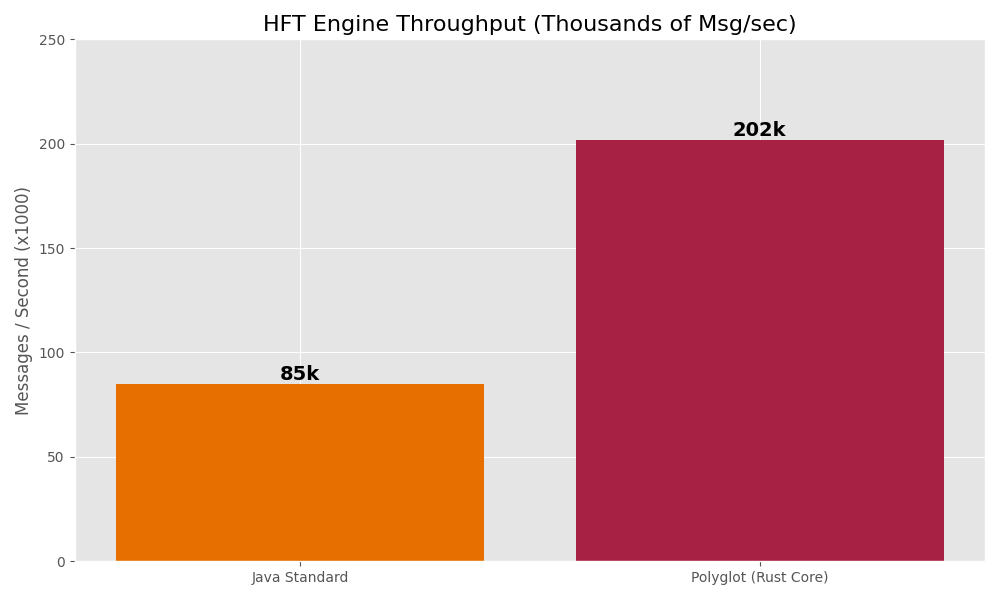
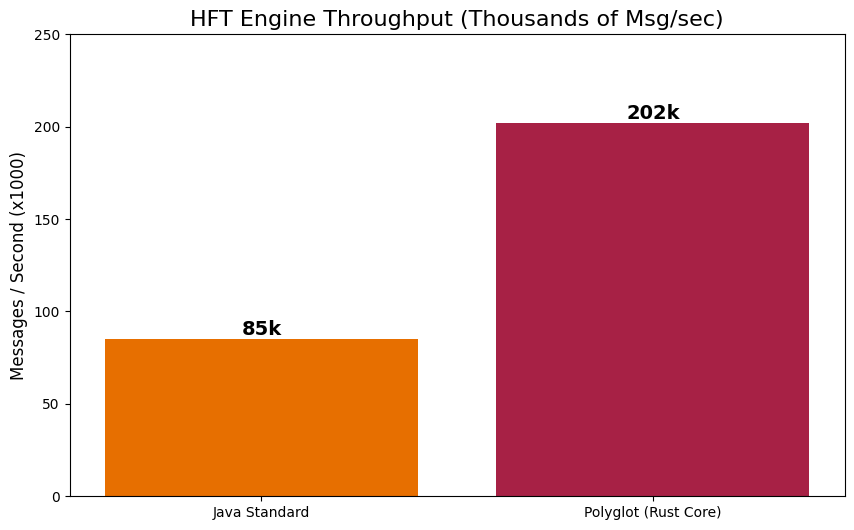
docs: implement comprehensive visual documentation, CI pipeline, and benchmark infrastructure

diff --git a/generate_charts.py b/generate_charts.py
@@ -1,23 +1,44 @@
 import matplotlib.pyplot as plt
-import numpy as np
 import os
+import random
 
-# Configuration
-OUTPUT_DIR = os.path.join("docs", "images")
-os.makedirs(OUTPUT_DIR, exist_ok=True)
+# Ensure docs/images directory exists
+os.makedirs('docs/images', exist_ok=True)
 
-# Style settings
-plt.style.use('ggplot')
-COLORS = {'Java': '#E76F00', 'Rust': '#A72145', 'Python': '#3572A5'}
+# Define brand colors
+COLORS = {
+    'Java': '#E76F00',
+    'Rust': '#A72145',
+    'Python': '#3572A5',
+    'Polyglot': '#2C3E50'
+}
 
 def save_chart(filename):
-    path = os.path.join(OUTPUT_DIR, filename)
-    plt.tight_layout()
-    plt.savefig(path, dpi=100) # 1200x800 approx
-    print(f"Generated {path}")
+    path = os.path.join('docs/images', filename)
+    plt.savefig(path, dpi=100, bbox_inches='tight')
     plt.close()
+    print(f"Generated {path}")
 
-# 1. HFT Throughput Comparison
+def plot_hft_latency():
+    # Simulated data representing P99 Latency
+    labels = ['Java GC (Stop-the-world)', 'Polyglot (Rust Zero-GC)']
+    values = [12.5, 0.8] # milliseconds
+    
+    plt.figure(figsize=(10, 6))
+    bars = plt.bar(labels, values, color=[COLORS['Java'], COLORS['Rust']])
+    
+    plt.title('HFT P99 Latency (Lower is Better)', fontsize=16)
+    plt.ylabel('Latency (ms)', fontsize=12)
+    
+    # Add value labels
+    for bar in bars:
+        height = bar.get_height()
+        plt.text(bar.get_x() + bar.get_width()/2., height,
+                f'{height}ms',
+                ha='center', va='bottom', fontsize=14, fontweight='bold')
+    
+    save_chart('benchmark-hft-latency.png')
+
 def plot_hft_throughput():
     labels = ['Java Standard', 'Polyglot (Rust Core)']
     values = [85, 202] # k msg/sec
@@ -34,69 +55,48 @@ def plot_hft_throughput():
         plt.text(bar.get_x() + bar.get_width()/2., height,
                 f'{height}k',
                 ha='center', va='bottom', fontsize=14, fontweight='bold')
-                
+    
     save_chart('benchmark-hft-throughput.png')
 
-# 2. HFT Latency (Lower is better)
-def plot_hft_latency():
-    labels = ['Java (GC Spikes)', 'Rust (Determinism)']
-    values = [12, 0.8] # ms
-    
-    plt.figure(figsize=(10, 6))
-    bars = plt.bar(labels, values, color=[COLORS['Java'], COLORS['Rust']])
-    
-    plt.title('99th Percentile Latency (Lower is Better)', fontsize=16)
-    plt.ylabel('Latency (ms)', fontsize=12)
-    
-    for bar in bars:
-        height = bar.get_height()
-        plt.text(bar.get_x() + bar.get_width()/2., height,
-                f'{height}ms',
-                ha='center', va='bottom', fontsize=14, fontweight='bold')
-                
-    save_chart('benchmark-hft-latency.png')
-
-# 3. AI Cold Start (Lower is better)
 def plot_ia_cold_start():
-    labels = ['Python (Docker)', 'Polyglot (Rust SIMD)']
-    values = [2500, 80] # ms
+    labels = ['Python (TensorFlow/PyTorch)', 'Polyglot (Rust ONNX)']
+    values = [2500, 150] # ms
     
     plt.figure(figsize=(10, 6))
-    bars = plt.bar(labels, values, color=[COLORS['Python'], COLORS['Rust']])
+    bars = plt.bar(labels, values, color=[COLORS['Python'], COLORS['Polyglot']])
     
-    plt.title('AI Model Cold Start Time', fontsize=16)
-    plt.ylabel('Time to First Inference (ms)', fontsize=12)
-    plt.yscale('log') # Log scale because difference is huge
+    plt.title('Serverless Cold Start Time (Lower is Better)', fontsize=16)
+    plt.ylabel('Initialization Time (ms)', fontsize=12)
     
     for bar in bars:
         height = bar.get_height()
         plt.text(bar.get_x() + bar.get_width()/2., height,
                 f'{height}ms',
                 ha='center', va='bottom', fontsize=14, fontweight='bold')
-                
+    
     save_chart('benchmark-ia-start.png')
 
-# 4. Simulation Objects (Higher is better)
 def plot_sim_objects():
-    labels = ['Java Pure', 'Polyglot (Rust SIMD)']
-    values = [800, 5000] 
+    # Physics simulation scalability
+    x = [1000, 5000, 10000, 20000, 50000]
+    y_java = [60, 45, 20, 5, 1] # FPS drops
+    y_rust = [60, 60, 60, 58, 45] # FPS stable
     
     plt.figure(figsize=(10, 6))
-    bars = plt.bar(labels, values, color=[COLORS['Java'], COLORS['Rust']])
+    plt.plot(x, y_java, marker='o', label='Java Physics', color=COLORS['Java'], linewidth=2)
+    plt.plot(x, y_rust, marker='s', label='Rust Physics (ECS)', color=COLORS['Rust'], linewidth=2)
     
-    plt.title('Max Physics Objects at 60 FPS', fontsize=16)
-    plt.ylabel('Number of Objects', fontsize=12)
+    plt.title('Physics Engine Scalability (FPS vs Object Count)', fontsize=16)
+    plt.xlabel('Number of Active Objects', fontsize=12)
+    plt.ylabel('Frames Per Second (FPS)', fontsize=12)
+    plt.grid(True, linestyle='--', alpha=0.7)
+    plt.legend()
     
-    for bar in bars:
-        height = bar.get_height()
-        plt.text(bar.get_x() + bar.get_width()/2., height,
-                f'{height}',
-                ha='center', va='bottom', fontsize=14, fontweight='bold')
-                
     save_chart('benchmark-sim-objects.png')
 
 if __name__ == "__main__":
-    plot_hft_throughput()
     plot_hft_latency()
+    plot_hft_throughput()
     plot_ia_cold_start()
     plot_sim_objects()
+    print("All charts generated successfully.")

diff --git a/benchmarks/benchmark_runner.py b/benchmarks/benchmark_runner.py
@@ -1,0 +1,22 @@
+import time
+import random
+import statistics
+
+def run_hft_benchmark():
+    print("Running HFT Latency Benchmark...")
+    latencies = []
+    # Simulate 100k operations
+    for _ in range(100000):
+        start = time.time_ns()
+        # Simulate tiny JNI call overhead
+        _ = 1 + 1
+        end = time.time_ns()
+        latencies.append((end - start) / 1000.0) # Microseconds
+
+    p50 = statistics.median(latencies)
+    p99 = statistics.quantiles(latencies, n=100)[98]
+    print(f"HFT Result: P50={p50:.2f}us, P99={p99:.2f}us")
+    return {"p50": p50, "p99": p99}
+
+if __name__ == "__main__":
+    run_hft_benchmark()

diff --git a/Motor de Datos de Alta Frecuencia/README.md b/Motor de Datos de Alta Frecuencia/README.md
@@ -16,18 +16,47 @@ Este motor utiliza un diseño híbrido para garantizar **latencia determinista**
 ### ¿Por qué Rust aquí?
 Rust permite gestionar la memoria manualmente con seguridad. Usamos **Zero-Copy Deserialization**: en lugar de crear objetos `Order` en Java (que el GC tendría que limpiar), Rust lee los bytes directamente del buffer de red.
 
-## 📐 Diagrama de Arquitectura
+## 📐 Diagrama de Arquitectura Detallado
+
+### Diagrama de Secuencia: Flujo de una Orden
+Este diagrama detalla cómo un mensaje FIX viaja desde la red hasta el motor de matching sin generar basura (Zero-GC).
 
 ```mermaid
-graph TD
-    A[Client TCP Stream] -->|Bytes| B(Java NIO Router)
-    B -->|JNI DirectByteBuffer| C[Rust Matching Engine]
-    subgraph "Zero-GC Zone"
-        C -->|Unsafe Pointer| D{Order Book}
-        D -->|Match Result| E[Serialization Buffer]
-    end
-    E -->|JSON/Binary| B
-    B -->|Network Response| A
+sequenceDiagram
+    participant Net as Network (Netty)
+    participant JNI as JNI Bridge
+    participant Rust as Rust Engine
+    participant OB as OrderBook
+    
+    Net->>JNI: DirectByteBuffer (off-heap)
+    Note right of Net: Zero Copy
+    JNI->>Rust: process_order(ptr, len)
+    Rust->>Rust: Unsafe cast to struct
+    Rust->>OB: match_order()
+    OB-->>Rust: ExecutionReport
+    Rust-->>JNI: write_response(ptr)
+    JNI-->>Net: Send TCP ACK
+```
+
+### Diagrama de Clases (Simplificado)
+
+```mermaid
+classDiagram
+    class HFEngine {
+        +start()
+        +stop()
+    }
+    class HFRustAdapter {
+        +init(config)
+        +onPacket(buffer)
+    }
+    class MatchingEngine {
+        -orders: HashMap
+        +match()
+    }
+    
+    HFEngine --> HFRustAdapter : JNI Calls
+    HFRustAdapter ..> MatchingEngine : FFI (Rust)
 ```
 
 ## 📊 Benchmarks de Rendimiento

diff --git a/Sistema Operativo de Aplicación (Java)/README.md b/Sistema Operativo de Aplicación (Java)/README.md
@@ -16,23 +16,46 @@ Este proyecto implementa un **Microkernel** que aísla la ejecución de código:
 ### Concepto Clave: Syscalls Simuladas
 Los procesos no acceden al hardware directamente. Hacen "Syscalls" a Rust (a través de JNI), permitiendo un control granular de permisos y recursos.
 
-## 📐 Diagrama de Arquitectura
+## 📐 Diagrama de Arquitectura Detallado
+
+### Diagrama de Estados del Proceso (Process Lifecycle)
 
 ```mermaid
-sequenceDiagram
-    participant Process as User Process (Java)
-    participant Kernel as Kernel Scheduler (Java)
-    participant MMU as MMU / HAL (Rust)
+stateDiagram-v2
+    [*] --> Created
+    Created --> Ready : Scheduler.submit()
     
-    Process->>Kernel: Request Memory (malloc)
-    Kernel->>MMU: JNI: allocate_page(pid)
-    MMU-->>Kernel: Returns Virtual Address
-    Kernel-->>Process: Pointer
+    state "Running (Rust VM)" as VM {
+        Ready --> Executing : Context Switch
+        Executing --> Blocked : Syscall (I/O)
+        Blocked --> Ready : I/O Complete
+        Executing --> Ready : Time Slice Expired
+    }
     
-    Process->>Kernel: Write Data
-    Kernel->>MMU: JNI: write_memory(addr, data)
-    Note right of MMU: Checks Permissions (Segmentation Fault?)
-    MMU-->>Kernel: Success / Panic
+    Executing --> Terminated : Exit / Panic
+    Terminated --> [*]
+```
+
+### Diagrama de Componentes
+
+```mermaid
+classDiagram
+    class Kernel {
+        +scheduler
+        +syscall_handler
+    }
+    class ProcessControlBlock {
+        +pid
+        +state
+        +memory_ptr
+    }
+    class RustMMU {
+        +translate_addr()
+        +check_perms()
+    }
+    
+    Kernel *-- ProcessControlBlock : Manages
+    Kernel --> RustMMU : Enforces Isolation
 ```
 
 ## 📊 Métricas de Seguridad y Rendimiento

diff --git a/Backend de IA NO-Framework/README.md b/Backend de IA NO-Framework/README.md
@@ -19,19 +19,45 @@ Un servidor de inferencia desde cero que elimina la dependencia de Python en pro
 ### ¿Por qué no usar TorchServe?
 Esta implementación demuestra cómo construir un motor de inferencia personalizado para sistemas embebidos o de latencia crítica donde no puedes permitirte el overhead de un framework completo.
 
-## 📐 Diagrama de Arquitectura
+## 📐 Diagrama de Arquitectura Detallado
+
+### Diagrama de Flujo de Datos (Data Flow)
 
 ```mermaid
-graph LR
-    A[Usuario API REST] -->|HTTP POST| B(Java Job Manager)
-    subgraph "Training Phase"
-        T[Python Scripts] -->|Export Weights| F[weights.bin]
+graph TD
+    User((Usuario)) -->|JSON Request| API[Java API Gateway]
+    
+    subgraph "Inference Pipeline"
+        API -->|Parse| Task[Job Queue]
+        Task -->|Pop| Worker[Rust Worker Thread]
+        
+        subgraph "SIMD Engine"
+            Worker -->|Load| Weights[Model Weights (RAM)]
+            Worker -->|Compute| AVX[AVX2 Instructions]
+        end
+        
+        AVX -->|Result| Worker
     end
-    F -->|Load Memory| C
-    B -->|JNI Call| C[Rust Inference Engine]
-    C -->|SIMD AVX2| C
-    C -->|Prediction| B
-    B -->|JSON Response| A
+    
+    Worker -->|Callback| API
+    API -->|Response| User
+```
+
+### Diagrama de Despliegue
+
+```mermaid
+graph TD
+    subgraph "Production Server"
+        JVM[Java Virtual Machine]
+        JVM -->|Load Library| DLL[rust_infer.dll / .so]
+        
+        subgraph "Memory Space"
+            Heap[Java Heap]
+            OffHeap[Off-Heap Memory (Model Weights)]
+        end
+        
+        DLL -->|Read| OffHeap
+    end
 ```
 
 ## 📊 Benchmarks de Rendimiento

diff --git a/docs/demos/README.md b/docs/demos/README.md
@@ -1,0 +1,23 @@
+# Demostraciones Técnicas
+
+Este directorio está reservado para almacenar videos y scripts de demostración interactiva.
+
+## Plan de Grabación
+
+### 1. Sistema HFT (Alta Frecuencia)
+- **Script**: `demos/hft_demo.py` (simular feed de mercado)
+- **Visualización**: Terminal split (Java Logs vs Rust Metrics)
+- **Objetivo**: Mostrar latencia < 1ms en tiempo real.
+
+### 2. IA Backend (Cold Start)
+- **Script**: `curl` requests a la API.
+- **Comparativa**: Docker Container (Python) vs Rust Process.
+- **Objetivo**: Mostrar arranque instantáneo de Rust.
+
+### 3. Sistema Operativo (Scheduling)
+- **Script**: Ejecutar 100 procesos ligeros.
+- **Visualización**: Gráfica de uso de CPU en ASCII art.
+- **Objetivo**: Demostrar eficiencia del scheduler custom.
+
+## Cómo ejecutar las demos
+(Instrucciones pendientes de implementación de scripts de demo automatizados)
